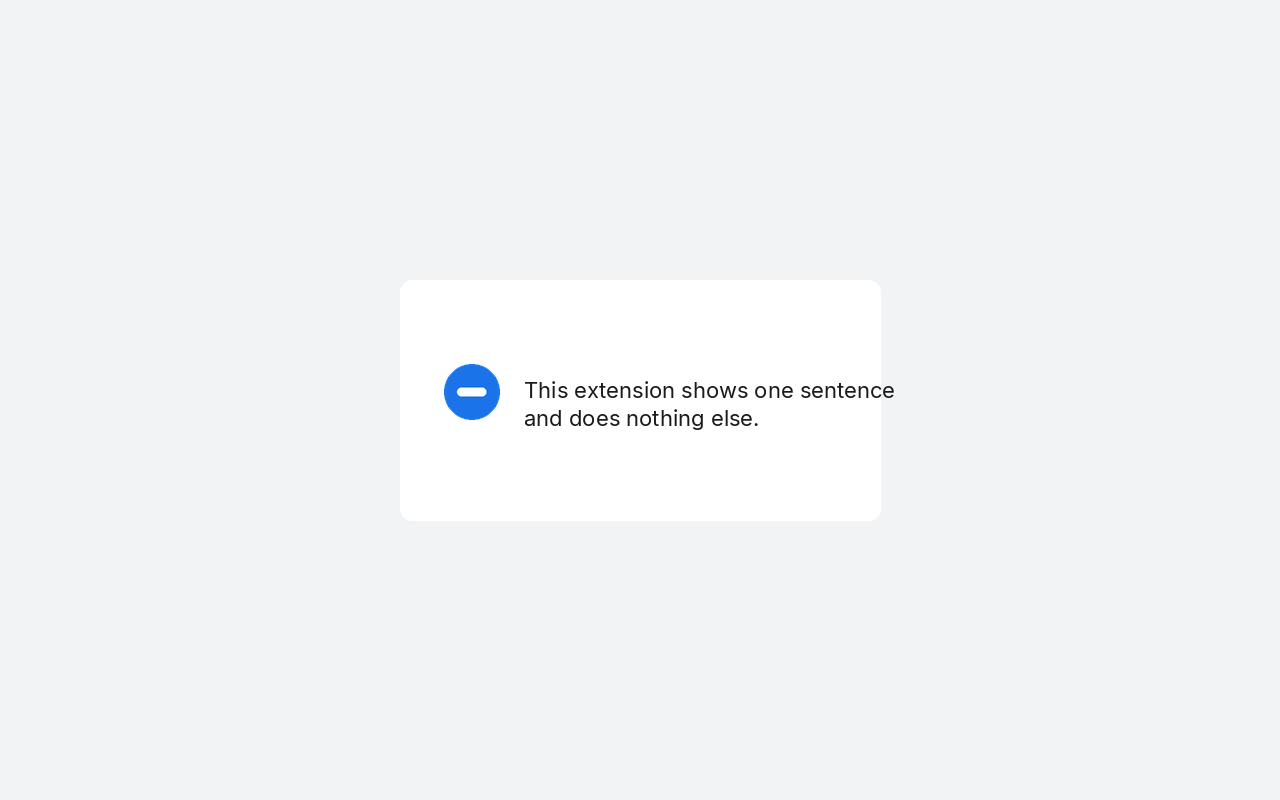
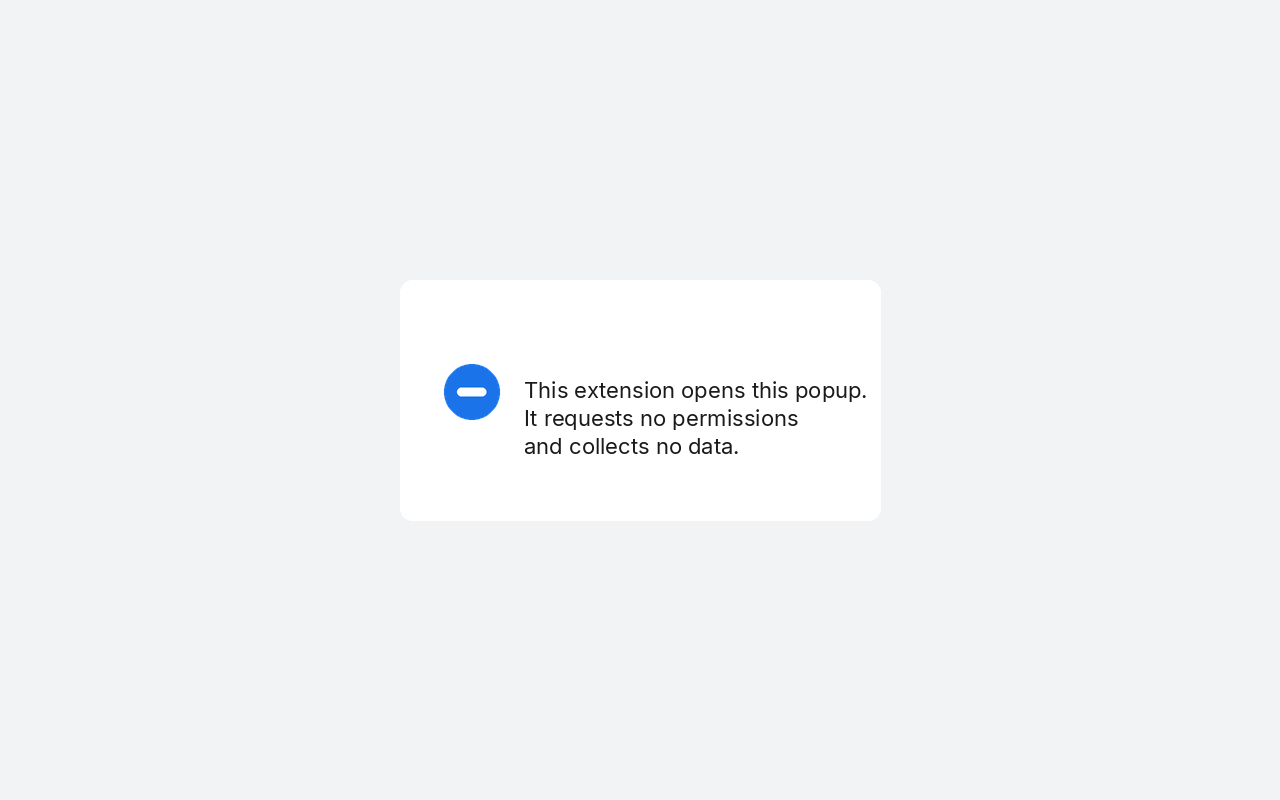
Describe the no-op extension's toolbar popup.
The store rejected 0.0.1 because the listing did not state what the item does. Version 0.0.2 names the popup and the lack of permissions in the package and the screenshot.

Changed region(s): [[0.4062, 0.4688, 0.6875, 0.5625]]

diff --git a/chrome-noop/popup.html b/chrome-noop/popup.html
@@ -6,6 +6,6 @@
   <link rel="stylesheet" href="popup.css">
 </head>
 <body>
-  <p>This extension shows one sentence and does nothing else.</p>
+  <p>This extension opens this popup. It requests no permissions and collects no data.</p>
 </body>
 </html>

diff --git a/chrome-noop/popup.css b/chrome-noop/popup.css
@@ -1,6 +1,6 @@
 body {
   margin: 0;
-  width: 280px;
+  width: 320px;
   padding: 16px;
   background: #fff;
   color: #1a1a1a;

diff --git a/chrome-noop/render_assets.py b/chrome-noop/render_assets.py
@@ -52,7 +52,7 @@ def render_screenshot(icon):
     font = ImageFont.truetype(FONT, 22)
     draw.text(
         (524, 376),
-        "This extension shows one sentence\nand does nothing else.",
+        "This extension opens this popup.\nIt requests no permissions\nand collects no data.",
         fill=(26, 26, 26),
         font=font,
         spacing=6,

diff --git a/chrome-noop/README.md b/chrome-noop/README.md
@@ -1,15 +1,15 @@
 # Playground no-op
 
-A Chrome extension that shows one sentence and does nothing else. It declares no permissions, has no background script, and has no content scripts. Upload the zip as the first private item in the Chrome Web Store developer dashboard.
+A private Chrome extension whose only feature is a toolbar popup. It requests no permissions, has no background script, and has no content scripts. The Chrome Web Store item ID is `canmakefmjmnhhaobdeipbamnalcloap`.
 
-The package is Manifest V3, version `0.0.1`. It is not a GitHub Pages app, because this directory has no `index.html`.
+The package is Manifest V3, version `0.0.2`. This directory has no `index.html`, so GitHub Pages does not publish it.
 
 ## Build the zip
 
 From this directory:
 
 ```bash
-bash pack.sh /tmp/chrome-noop.zip
+bash pack.sh chrome-noop.zip
 ```
 
 `manifest.json` is at the root of the archive. The dashboard rejects a zip that wraps the files in an extra folder. Two listing images stay out of the zip:
@@ -27,14 +27,24 @@ bash pack_test.sh
 
 ## Dashboard fields
 
-Use the same wording in the listing that the extension shows.
+The store rejected version `0.0.1` because the listing description did not explain the functionality. Upload `chrome-noop.zip` on the draft, replace the listing text with the text below, and submit for review again. Leave visibility set to **Private**.
 
 | Field | Value |
 | --- | --- |
 | Name | Playground no-op |
-| Description | Shows one sentence and does nothing else. |
-| Single purpose | This extension shows one sentence and does nothing else. |
+| Summary | Opens a toolbar popup. It requests no permissions and collects no data. |
+| Single purpose | Add a toolbar button that opens a popup. The popup states that the extension requests no permissions and collects no data. |
 | Data use | It does not collect or use user data. |
 | Visibility | Private |
 
-On the publisher **Account** page, the contact email has to be verified, and the Google account that will install the extension has to be listed under **Trusted tester accounts**. Submit this first version from the dashboard. Later API publishes keep the visibility saved there.
+Paste this as the detailed description:
+
+```text
+Playground no-op adds one toolbar button. Click the button to open a popup. The popup states that the extension requests no permissions and collects no data.
+
+The extension has no service worker and no content scripts. It does not read or change web pages. It does not access history, cookies, or tabs.
+
+The publisher uses this private item to confirm that a trusted tester can install it from the Chrome Web Store.
+```
+
+On the publisher **Account** page, the contact email has to be verified, and the Google account that will install the extension has to be listed under **Trusted tester accounts**. Later API publishes keep the visibility saved there.

diff --git a/AGENTS.md b/AGENTS.md
@@ -750,7 +750,7 @@ auto-discover them. Run their local tests when you change them.
 | `esp32-ble/` | Rust/ESP-IDF firmware: BLE GATT LED control for the iOS ESP32 BLE experiment. USB flash only. Agent guide: [`esp32-ble/AGENTS.md`](esp32-ble/AGENTS.md) | host protocol tests + Xtensa cross-build via `esp32-ble.yml` |
 | `life-scad/` | OpenSCAD Life sculpture (Z = time) plus optional Python reverse-history search | `python3 life-scad/reverse_life_test.py` (needs `pip install -r life-scad/requirements.txt`) |
 | `life-qr/` | Parametric OpenSCAD Life sculpture with a QR-code roof for any text/height | `python3 life-qr/life_qr_test.py` (optional `pip install segno`) |
-| `chrome-noop/` | Manifest V3 Chrome extension that shows one sentence and does nothing else. The zip is a manual Chrome Web Store upload. It is not published by CI. | `bash chrome-noop/pack_test.sh` |
+| `chrome-noop/` | Manifest V3 Chrome extension with one toolbar popup and no permissions. The zip is a manual Chrome Web Store upload. Item ID `canmakefmjmnhhaobdeipbamnalcloap`. It is not published by CI. | `bash chrome-noop/pack_test.sh` |
 
 ## The iOS app
 

diff --git a/README.md b/README.md
@@ -69,8 +69,8 @@ Cloudflare Workers live here too. CI still builds and tests them when they
 change. They have no `index.html`, so GitHub Pages deploy and preview skip
 them:
 
-- **[`chrome-noop/`](chrome-noop/)** — a Chrome extension that shows one sentence
-  and does nothing else. The zip is a manual Chrome Web Store upload. It
+- **[`chrome-noop/`](chrome-noop/)** — a private Chrome extension with one toolbar
+  popup and no permissions. The zip is a manual Chrome Web Store upload. It
   is not a Pages app and CI does not publish it.
 - **[`gitdb/`](gitdb/)** — query a git repo's history, files, blame, and file
   contents with SQL, via SQLite virtual tables over go-git (Go CLI).
